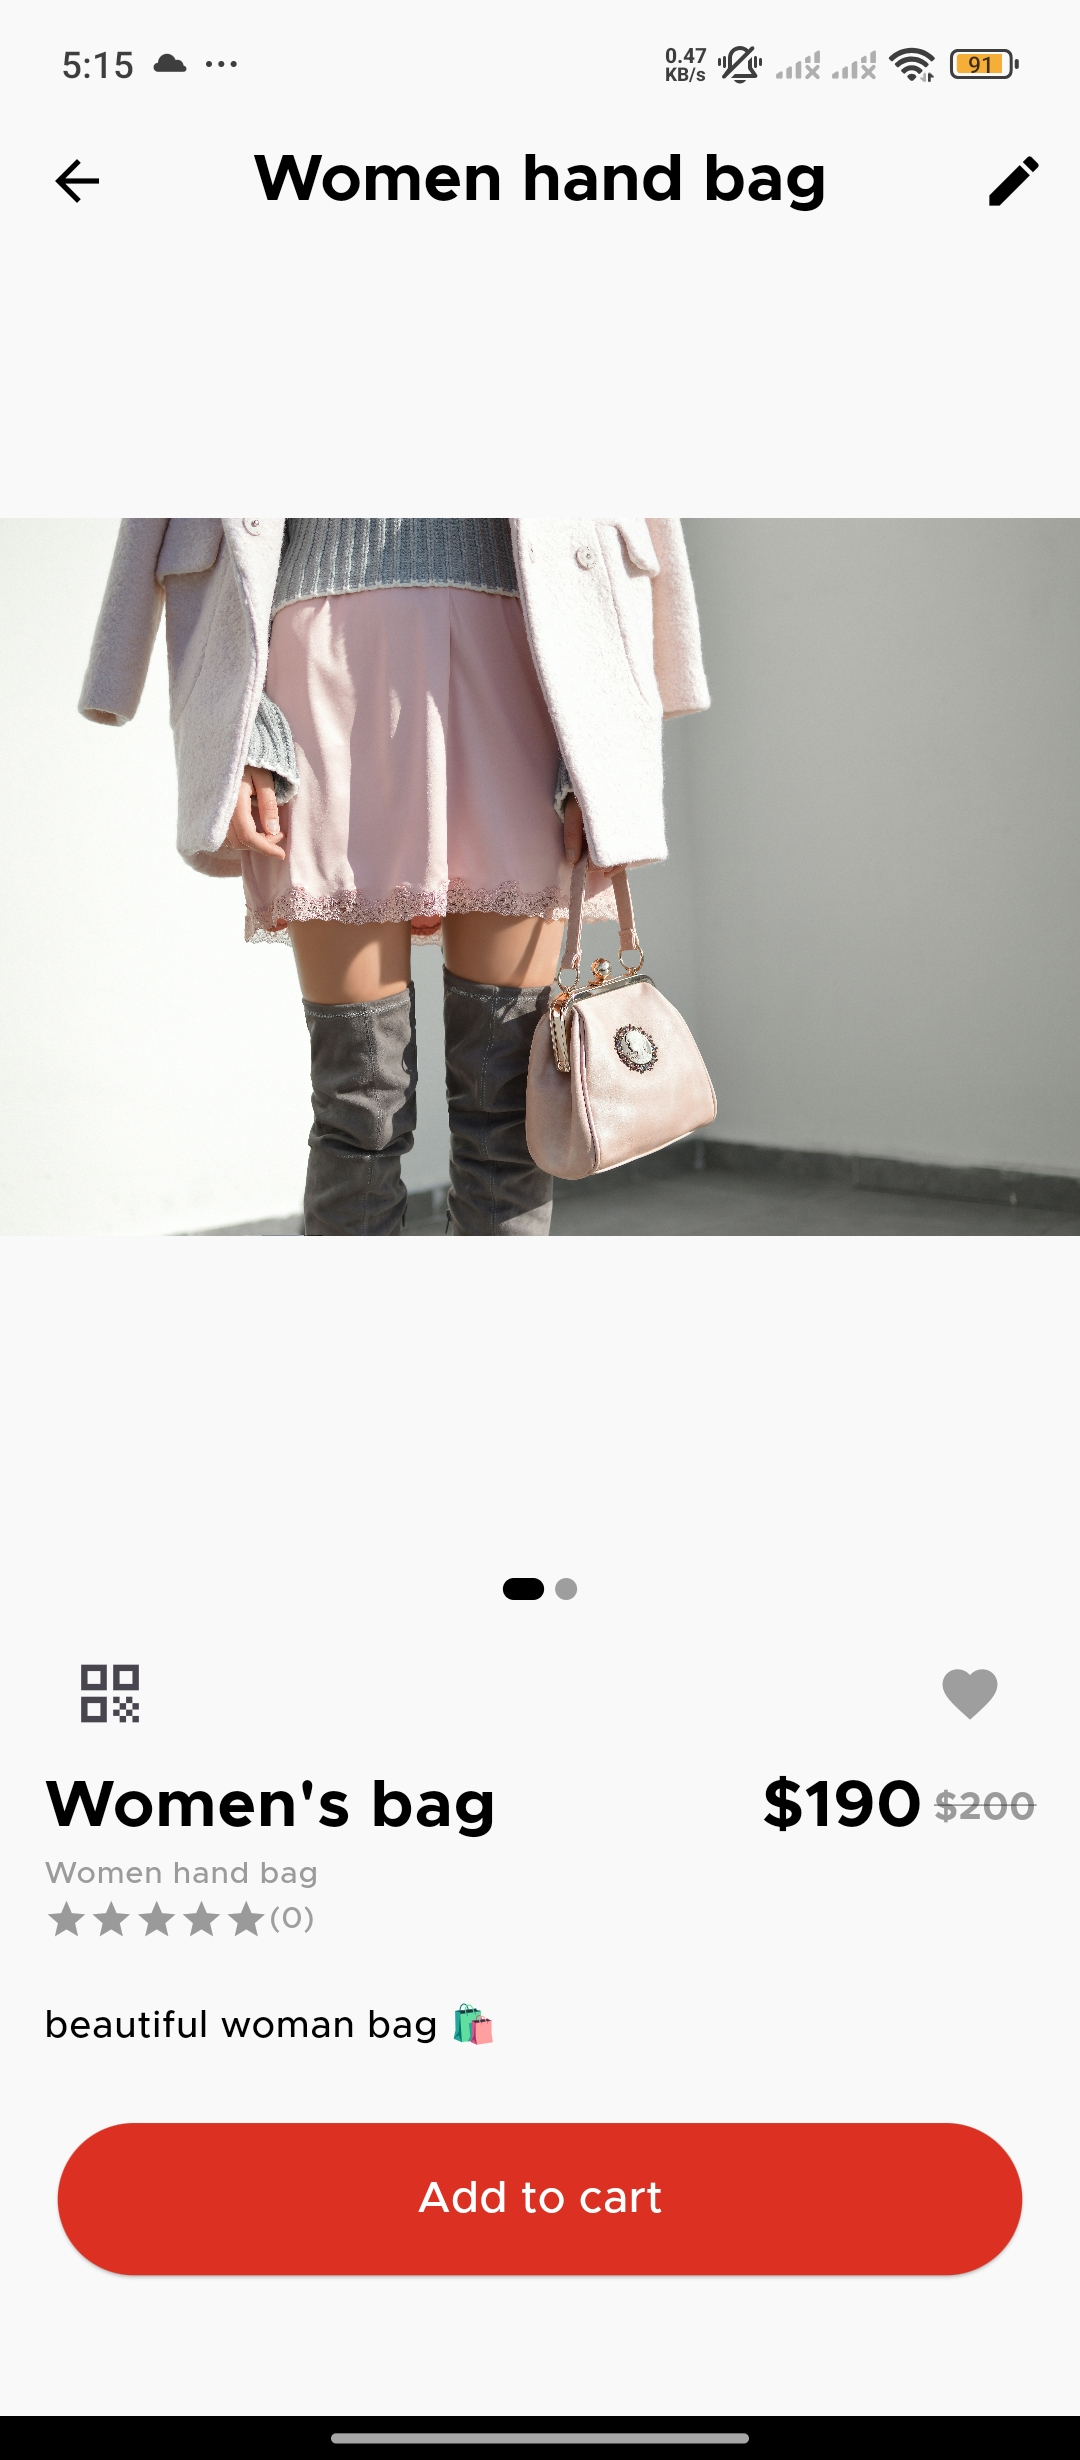
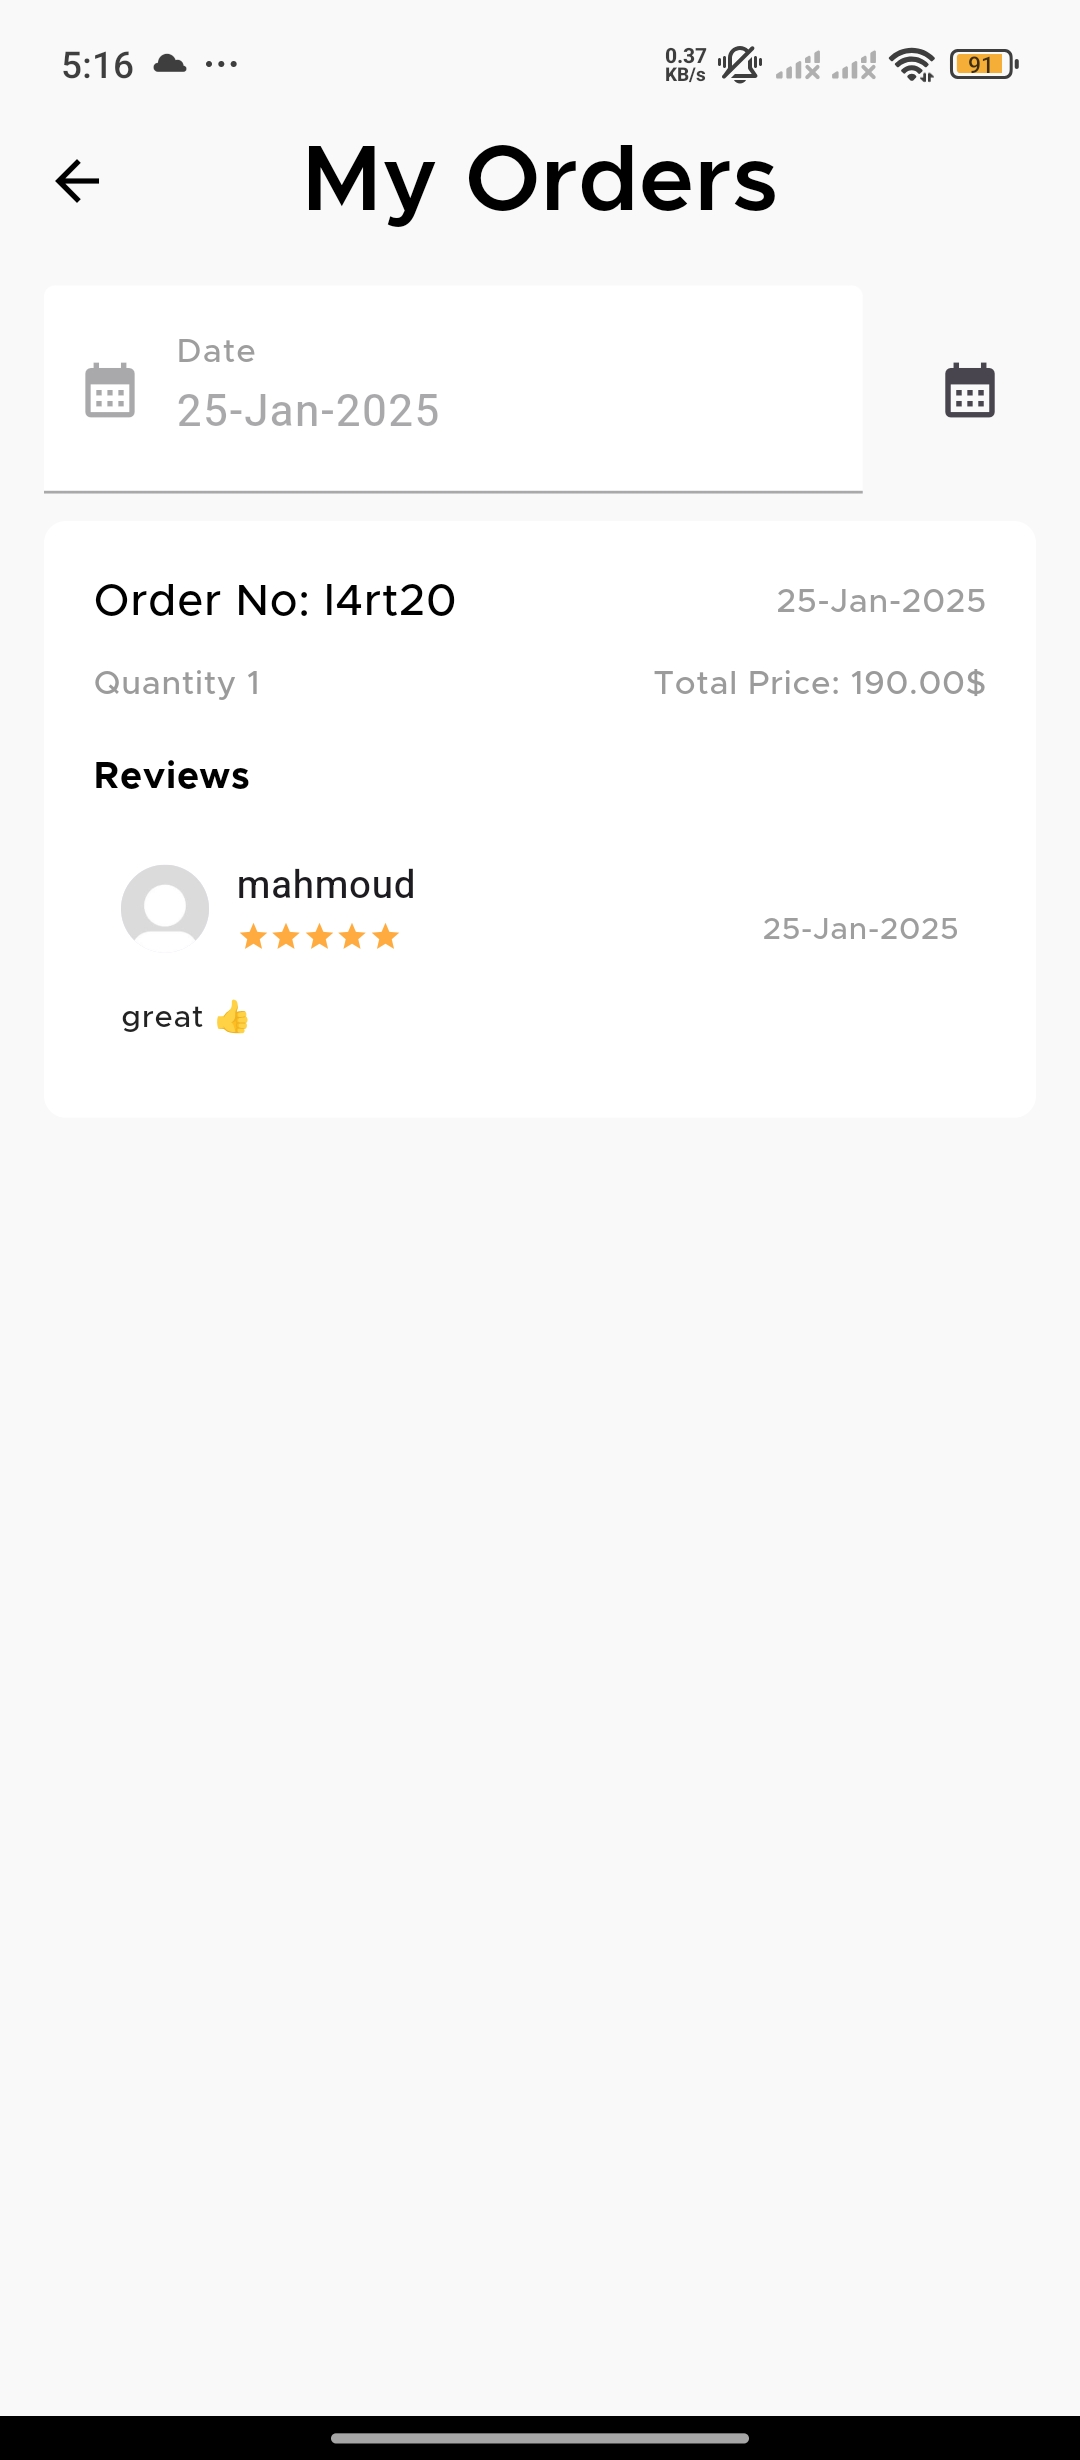
finalize readme

diff --git a/README.md b/README.md
@@ -113,5 +113,3 @@ features
 <img src="https://github.com/mahmoud-hassan1/Fashion-App/blob/payment-gateway/screen_shots/22.png" width="300"><img src="https://github.com/mahmoud-hassan1/Fashion-App/blob/payment-gateway/screen_shots/23.png" width="300"><img src="https://github.com/mahmoud-hassan1/Fashion-App/blob/payment-gateway/screen_shots/24.png" width="300">
 
 <img src="https://github.com/mahmoud-hassan1/Fashion-App/blob/payment-gateway/screen_shots/25.png" width="300"><img src="https://github.com/mahmoud-hassan1/Fashion-App/blob/payment-gateway/screen_shots/26.png" width="300"><img src="https://github.com/mahmoud-hassan1/Fashion-App/blob/payment-gateway/screen_shots/27.png" width="300">
-
-<img src="https://github.com/mahmoud-hassan1/Fashion-App/blob/payment-gateway/screen_shots/28.png" width="300">
